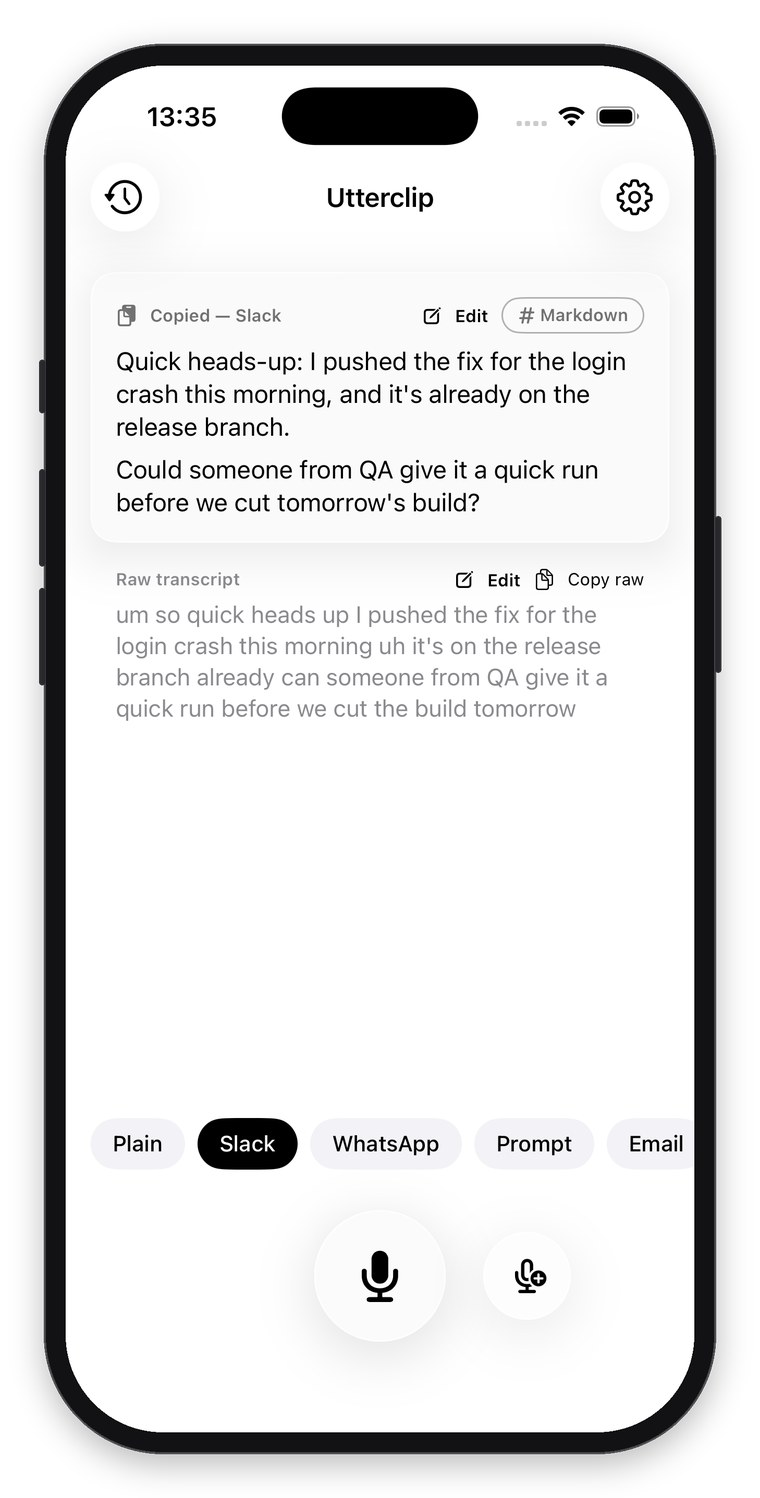
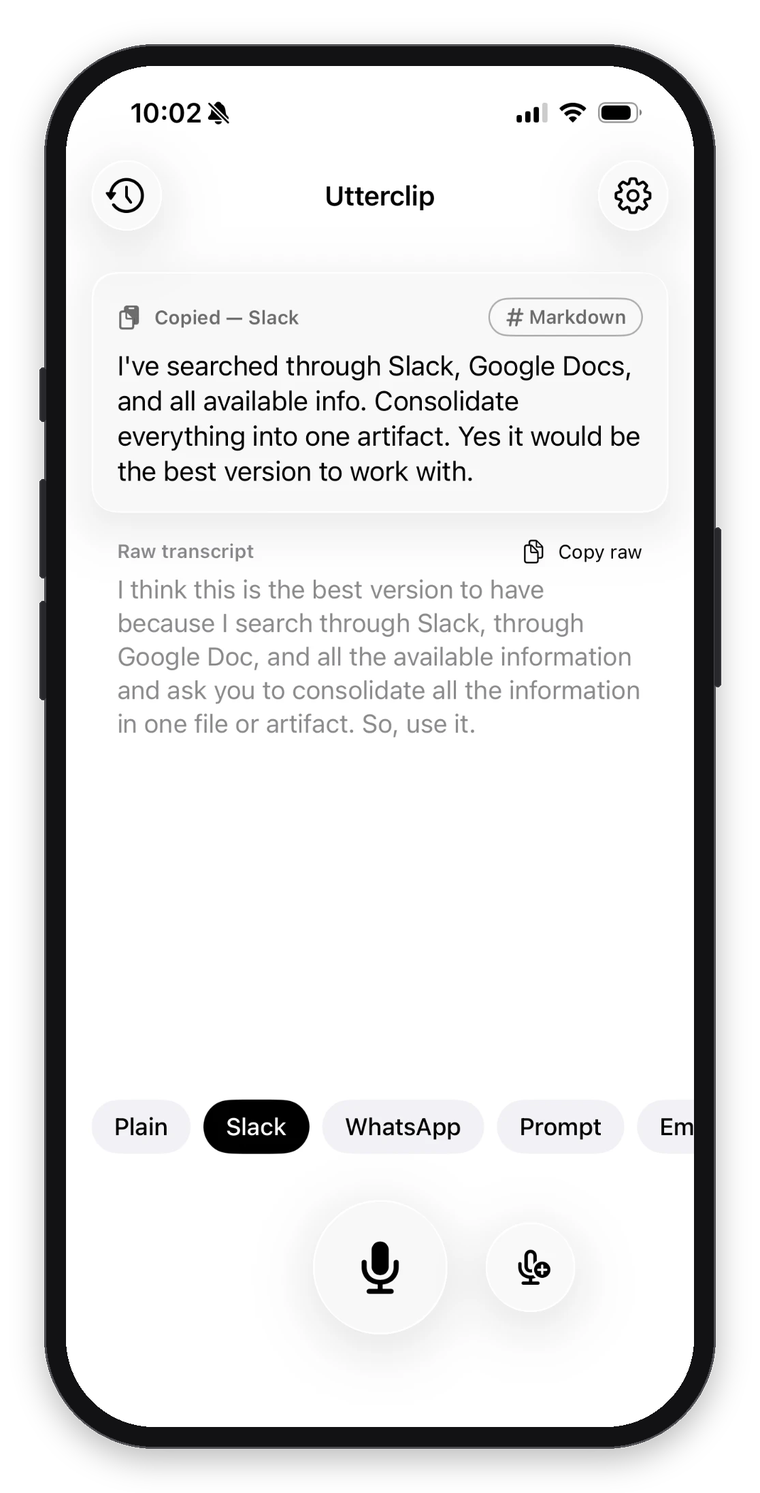
Mac header glyphs sit closer; softer raw-transcript hover; fresh iPhone screenshot
Header action buttons are 32 pt wide with 8 pt side padding and no gap
(row still 36 pt tall, header trailing padding 10). The raw transcript's
hover tint drops to 3 %, the card keeps 6 %. README iPhone screenshot
re-taken on the 15 Pro with the current build (no Edit chips).

diff --git a/Utterclip/Views/Platform.swift b/Utterclip/Views/Platform.swift
@@ -168,7 +168,7 @@ struct MacHeader<Actions: View>: View {
     @ViewBuilder var actions: Actions
 
     var body: some View {
-        HStack(spacing: 2) { // the button style adds the breathing room
+        HStack(spacing: 0) { // the button style adds the breathing room
             if let back {
                 Button(action: back) {
                     Image(systemName: "chevron.left")
@@ -185,7 +185,7 @@ struct MacHeader<Actions: View>: View {
         .buttonStyle(HeaderActionButtonStyle())
         .foregroundStyle(.primary)
         .padding(.leading, 20)
-        .padding(.trailing, 8) // the buttons carry 6 pt of their own; glyph edges stay ~20 pt in
+        .padding(.trailing, 10) // plus the button's own ~8 pt: glyph edges sit ~18 pt in
         .padding(.top, 6) // the 36 pt buttons give the row its height; keep the title where it was
         .padding(.bottom, 0)
     }
@@ -196,10 +196,11 @@ struct MacHeader<Actions: View>: View {
 struct HeaderActionButtonStyle: ButtonStyle {
     func makeBody(configuration: Configuration) -> some View {
         configuration.label
-            // 10 pt puts a text action's edge where a centred 15 pt glyph's edge lands in a
-            // 36 pt button, so Done / Cancel / Clear line up with the symbols.
-            .padding(.horizontal, 10)
-            .frame(minWidth: 36, minHeight: 36)
+            // 8 pt puts a text action's edge where a centred 15 pt glyph's edge lands in a
+            // 32 pt button, so Done / Cancel / Clear line up with the symbols. 32 keeps the
+            // two header glyphs close together; the row stays 36 pt tall.
+            .padding(.horizontal, 8)
+            .frame(minWidth: 32, minHeight: 36)
             .contentShape(Rectangle())
             .opacity(configuration.isPressed ? 0.5 : 1)
     }
@@ -229,13 +230,15 @@ struct CompactActionButtonStyle: ButtonStyle {
 struct TapToEdit<S: Shape>: ViewModifier {
     let label: String
     let shape: S
+    /// Hover tint strength: 6 % on the glass card, 3 % on the bare raw transcript.
+    var tint: Double = 0.06
     let action: () -> Void
     @State private var hovering = false
 
     func body(content: Content) -> some View {
         content
             // Behind the content, not over it: a tint on top of the text dulls it.
-            .background(shape.fill(.primary.opacity(hovering ? 0.06 : 0)))
+            .background(shape.fill(.primary.opacity(hovering ? tint : 0)))
             .contentShape(shape)
             .onTapGesture(perform: action)
             #if os(macOS)
@@ -253,8 +256,8 @@ struct TapToEdit<S: Shape>: ViewModifier {
 
 extension View {
     /// Opens the editor when the block is tapped; see `TapToEdit`.
-    func tapToEdit<S: Shape>(_ label: String, shape: S, action: @escaping () -> Void) -> some View {
-        modifier(TapToEdit(label: label, shape: shape, action: action))
+    func tapToEdit<S: Shape>(_ label: String, shape: S, tint: Double = 0.06, action: @escaping () -> Void) -> some View {
+        modifier(TapToEdit(label: label, shape: shape, tint: tint, action: action))
     }
 
     /// Mac: the fixed-fill chip above. iOS keeps the system button look.

diff --git a/Utterclip/Views/ContentView.swift b/Utterclip/Views/ContentView.swift
@@ -300,7 +300,7 @@ struct ContentView: View {
             }
             .padding(.horizontal) // align with the styled card's inner content
             .padding(.vertical, 10) // air inside the hover tint …
-            .tapToEdit("Edit raw transcript", shape: RoundedRectangle(cornerRadius: 12)) {
+            .tapToEdit("Edit raw transcript", shape: RoundedRectangle(cornerRadius: 12), tint: 0.03) {
                 editTarget = .raw
             }
             .padding(.vertical, -10) // … without moving the block in the layout
